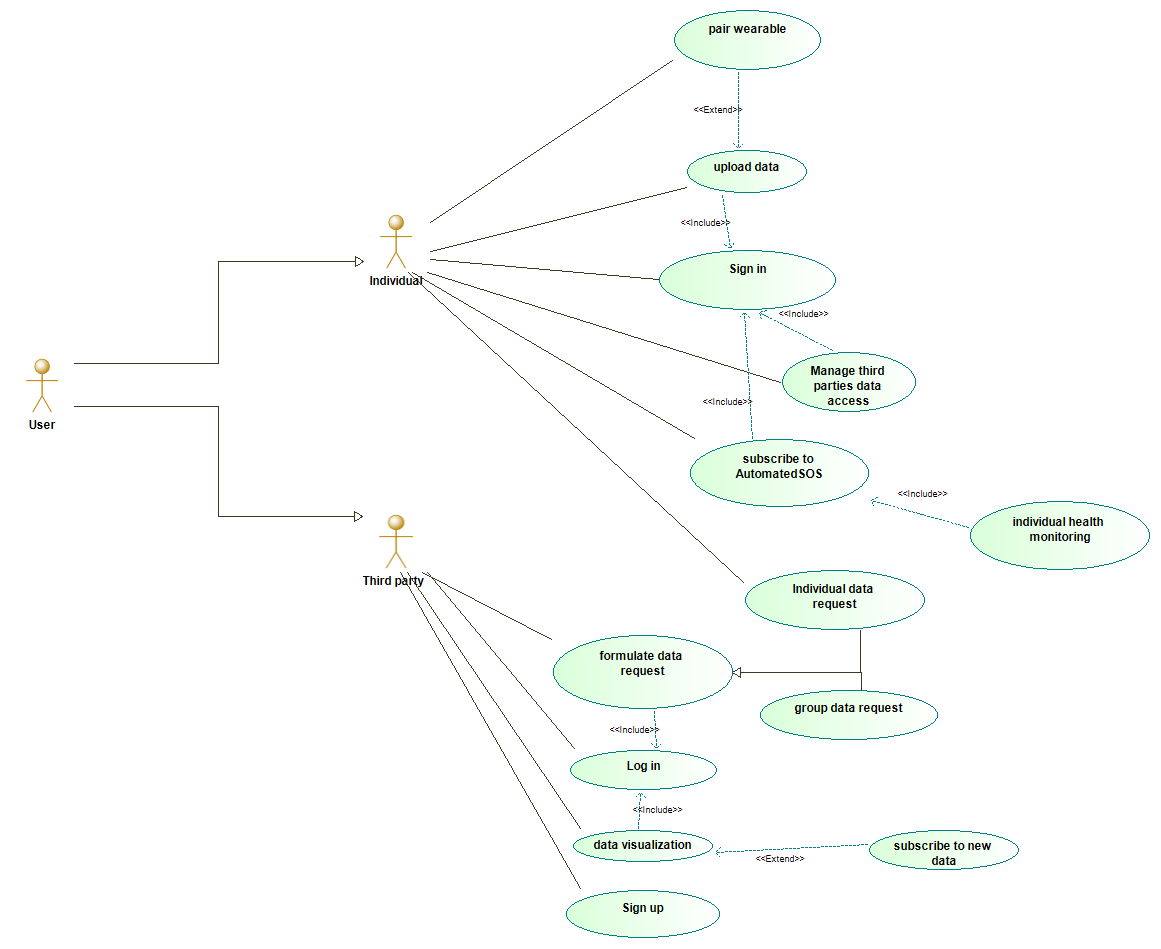
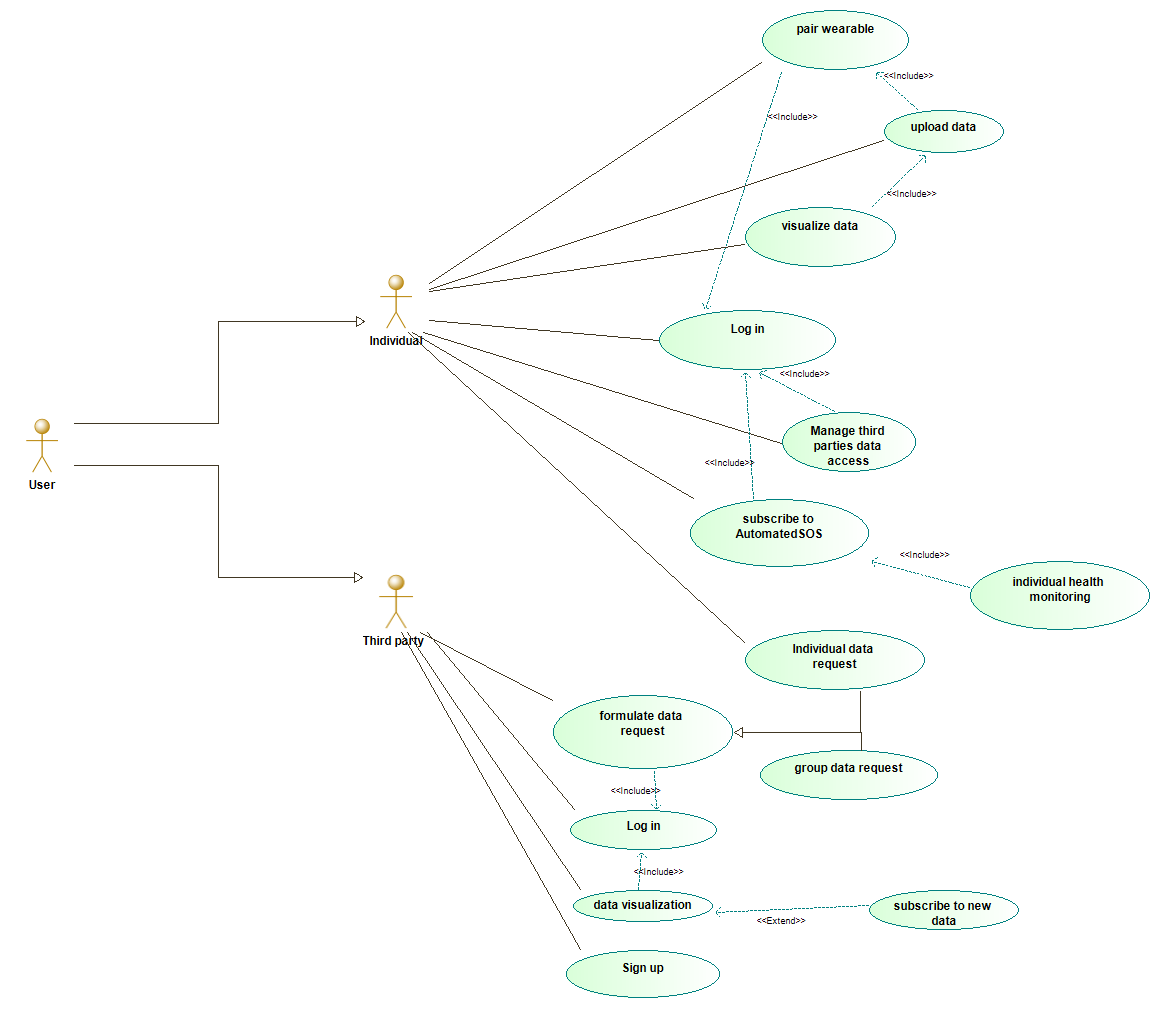
tweaks in use cases

diff --git a/RASD/specific_requirements.tex b/RASD/specific_requirements.tex
@@ -325,7 +325,7 @@ Wile is an engineering student who wants to get back in shape. He decides to joi
 \centering
 \begin{tabular}{|l|p{11cm}|}
     \hline
-    Name & Smartphone sign In
+    Name & Smartphone Log In
     \\ \hline
     Actor & Individual
     \\ \hline 
@@ -357,7 +357,7 @@ Wile is an engineering student who wants to get back in shape. He decides to joi
 \centering
 \begin{tabular}{|l|p{11cm}|}
     \hline
-    Name & Web application sign In
+    Name & Web application Log In
     \\ \hline
     Actor & Third party
     \\ \hline 
@@ -450,6 +450,37 @@ Wile is an engineering student who wants to get back in shape. He decides to joi
 \end{tabular}
 \end{table}
 
+
+\begin{table}[p]
+\centering
+\begin{tabular}{|l|p{11cm}|}
+    \hline
+    Name & Visualize data
+    \\ \hline
+    Actor & Individual
+    \\ \hline 
+    Entry condition & The individual is logged in and has already uploaded some data to the system
+    \\ \hline
+    Events flow &
+    \begin{enumerate}
+    \item The individual goes to "Mydata" section.
+    \item The individual select which data he wants to see in details.
+    \item The application downloads the data from the system.
+    \end{enumerate}
+     \\ \hline
+     Exit Condition & Individual eHealth data is successfully loaded on the device screen.
+     \\
+    \hline
+    Exceptions &
+    \begin{enumerate}
+    \item Connection falls down during the upload phase.
+    \item The application fails the download of eHealth data.
+    \end{enumerate}
+  The application notifies that there were problem during the upload phase. The individual can repeat the procedure by selecting again the data.
+      \\
+    \hline
+\end{tabular}
+\end{table}
 
 \begin{table}[p]
 \centering
@@ -612,7 +643,7 @@ The application notifies that the device is disconnected.
 \centering
 \begin{tabular}{|l|p{11cm}|}
     \hline
-    Name & Data visualization
+    Name & Visualize data
     \\ \hline
     Actor & Third party
     \\ \hline 
